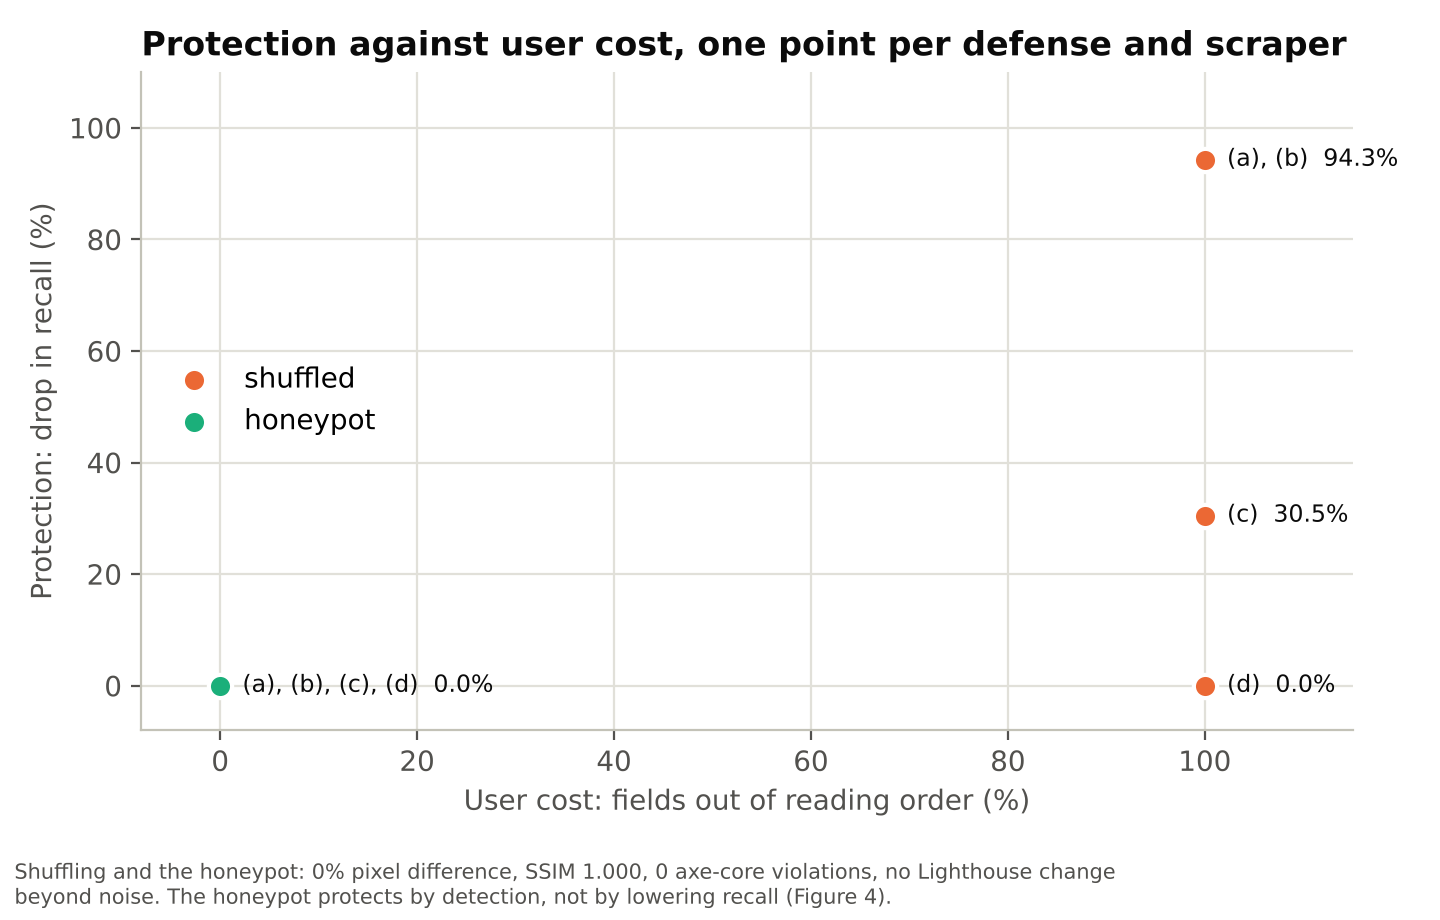
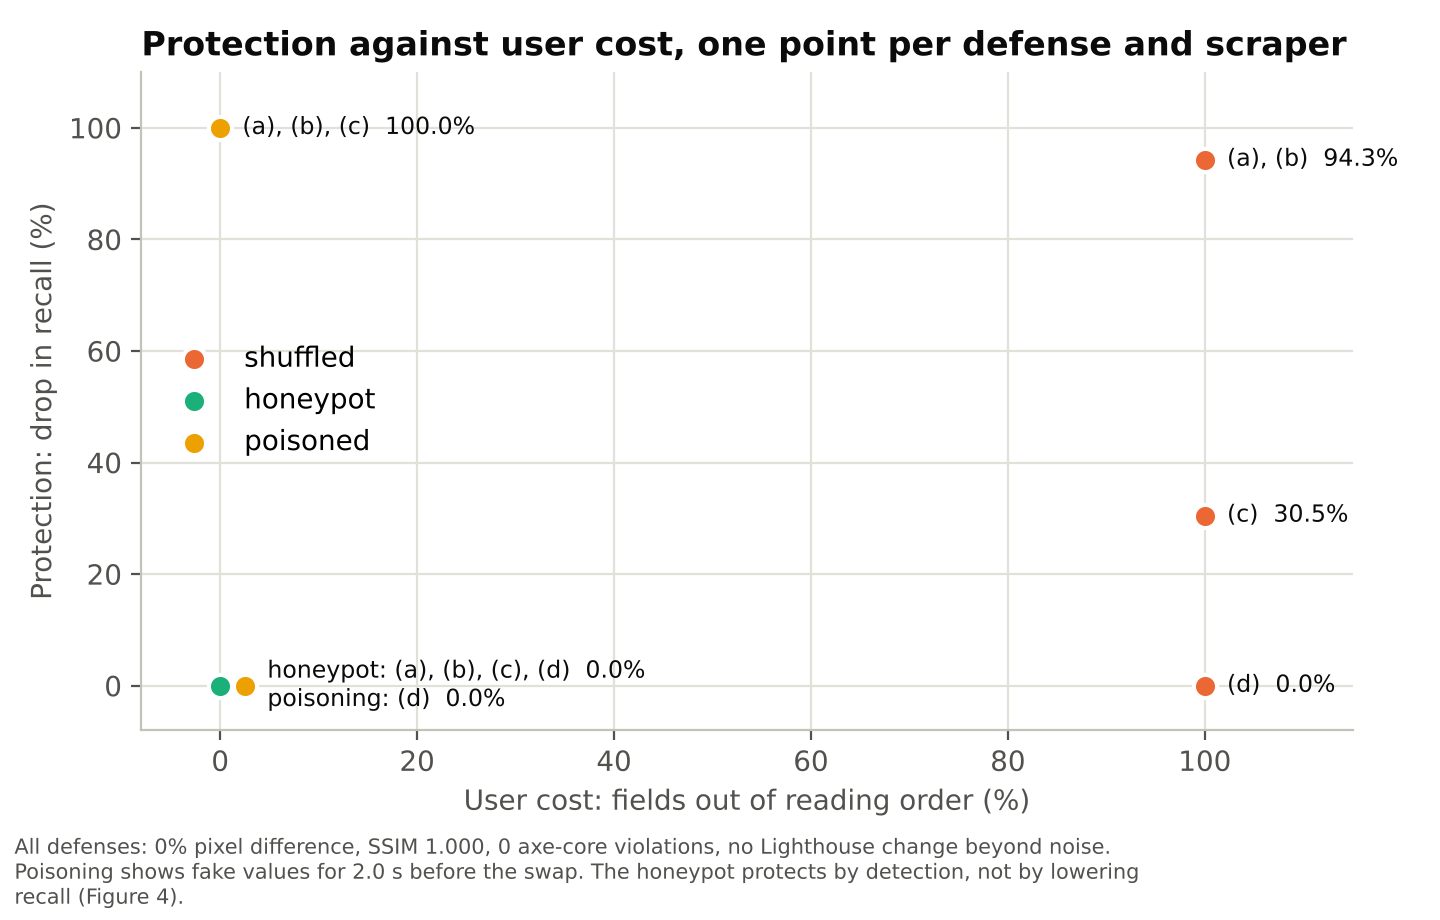
Poisoning's tables and graphs with the laptop's user cost; cross-check 734/734 (D117)
- graphs 6-8, fig3, fig6 and tables.md redrawn with
  results/2026-11-23-user-cost-full-2
- Table 3: fakes on screen column; fig3: points that share a spot sit
  side by side, so their labels no longer overlap
- Log Turn 380

Claude-Session: https://claude.ai/code/session_015cti87W5fXESvDhktUwNW7

diff --git a/measurement/figures.py b/measurement/figures.py
@@ -156,6 +156,8 @@ def fig_reduction(plt, cells, scrapers, path):
 
 def fig_protection_vs_cost(plt, cells, cost, scrapers, path):
     fig, ax = plt.subplots(figsize=(7.2, 4.6))
+    from matplotlib.transforms import offset_copy
+    points = defaultdict(list)  # (x, drop) -> [(defense, scrapers)], so defenses at the same spot sit side by side
     for cond in DEFENSES:
         if cond not in cost:
             continue
@@ -166,18 +168,28 @@ def fig_protection_vs_cost(plt, cells, cost, scrapers, path):
             if c and c["reduction_recall"] is not None:
                 groups[round(100 * c["reduction_recall"], 1)].append(s)
         for red, ss in groups.items():
-            ax.scatter([100 * x], [red], s=70, color=COLORS[cond], edgecolor="white", linewidth=1.5, zorder=3,
-                       label=cond if red == max(groups) else None)
-            ax.annotate(", ".join(f"({s})" for s in ss) + f"  {red:.1f}%", (100 * x, red), xytext=(8, 0),
-                        textcoords="offset points", va="center", fontsize=8.5, color=INK)
+            points[(100 * x, red)].append((cond, ss))
+    labelled = set()
+    for (xp, red), entries in points.items():
+        for k, (cond, ss) in enumerate(entries):
+            ax.scatter([xp], [red], s=70, color=COLORS[cond], edgecolor="white", linewidth=1.5, zorder=3,
+                       transform=offset_copy(ax.transData, fig=fig, x=9 * k, y=0, units="points"),
+                       label=None if cond in labelled else cond)
+            labelled.add(cond)
+        text = "\n".join((f"{DEFENSE_NAMES[c]}: " if len(entries) > 1 else "") + ", ".join(f"({s})" for s in ss)
+                         + f"  {red:.1f}%" for c, ss in entries)
+        ax.annotate(text, (xp, red), xytext=(8 + 9 * (len(entries) - 1), 0), textcoords="offset points", va="center",
+                    fontsize=8.5, color=INK)
     ax.set_xlim(-8, 115)
     ax.set_ylim(-8, 110)
     ax.set_xlabel("User cost: fields out of reading order (%)")
     ax.set_ylabel("Protection: drop in recall (%)")
     ax.set_title("Protection against user cost, one point per defense and scraper", loc="left")
     ax.legend(loc="center left")
-    footnote(fig, "Shuffling and the honeypot: 0% pixel difference, SSIM 1.000, 0 axe-core violations, no Lighthouse change "
-             "beyond noise. The honeypot protects by detection, not by lowering recall (Figure 4).")
+    note = "All defenses: 0% pixel difference, SSIM 1.000, 0 axe-core violations, no Lighthouse change beyond noise."
+    if "poisoned" in cost and cost["poisoned"].get("fakes_visible_max_s") is not None:
+        note += f" Poisoning shows fake values for {cost['poisoned']['fakes_visible_max_s']:.1f} s before the swap."
+    footnote(fig, note + " The honeypot protects by detection, not by lowering recall (Figure 4).")
     fig.tight_layout(rect=(0, 0.08, 1, 1))
     fig.savefig(path, dpi=200)
     plt.close(fig)
@@ -293,7 +305,7 @@ def tables(cells, cost, scrapers):
     lines += ["", "False-positive rate: planned (a human-like visitor that clicks only visible links, Sun Nov 29).", "",
               "## Table 3. User cost against baseline", "",
               "| Site | Pixel diff (max) | SSIM (min) | Fields out of reading order | HTML size | axe-core violations (new) | "
-              "Lighthouse score | FCP | LCP | TTI |", "|---|---|---|---|---|---|---|---|---|---|"]
+              "Lighthouse score | FCP | LCP | TTI | Fakes on screen (max) |", "|---|---|---|---|---|---|---|---|---|---|---|"]
     for cond in DEFENSES:
         c = cost.get(cond)
         if not c:
@@ -304,7 +316,8 @@ def tables(cells, cost, scrapers):
         lines.append(f"| {cond} | {c['pixel_diff_max_percent']:.3f}% | {c['ssim_min']:.4f} | "
                      f"{c['fields_out_of_order']:.0f}/{c['fields']:.0f} | {c['html_change_percent']:+.1f}% | "
                      f"{c.get('axe_violations', 0):.0f} ({c.get('axe_new_vs_baseline', 0):.0f}) | {ch('score', '', 1)} | "
-                     f"{ch('fcp_ms', ' ms')} | {ch('lcp_ms', ' ms')} | {ch('tti_ms', ' ms')} |")
+                     f"{ch('fcp_ms', ' ms')} | {ch('lcp_ms', ' ms')} | {ch('tti_ms', ' ms')} | "
+                     f"{'—' if c.get('fakes_visible_max_s') is None else format(c['fakes_visible_max_s'], '.2f') + ' s'} |")
     lines += ["", "Lighthouse changes are the mean over the 10 pages of each page's median of 5 runs; a change smaller than "
               "the baseline's own run-to-run range is not counted as an effect (§5).", ""]
     # Table 4: comparison with published work

diff --git a/measurement/tests/test_figures.py b/measurement/tests/test_figures.py
@@ -64,7 +64,7 @@ class TablesTest(unittest.TestCase):
         self.assertIn("| (a) raw HTML | shuffled | 4 4 4 | 5.7% |", text)
         self.assertIn("94.3% | stops |", text)
         self.assertIn("| (d) adaptive | 0.00 | 1.00 | 0 |", text)
-        self.assertIn("| shuffled | 0.000% | 1.0000 | 70/70 | +21.2% | 0 (0) | +0.0 | +0 ms | +0 ms | +22 ms |", text)
+        self.assertIn("| shuffled | 0.000% | 1.0000 | 70/70 | +21.2% | 0 (0) | +0.0 | +0 ms | +0 ms | +22 ms | — |", text)
         self.assertIn("100% (88.7% → 0%) | WebCloak", text)
         self.assertIn("300×", text)
 

diff --git a/results/2026-11-23-cross-check/report.md b/results/2026-11-23-cross-check/report.md
@@ -1,8 +1,8 @@
 # Cross-check of the results
 
-Run 2026-11-23T19:22:27 · runs: `results/2026-11-18-experiment`, `results/2026-11-18-c-all`, `results/2026-11-20-d-all`, `results/2026-11-23-poisoned-2` · results: `results/2026-11-23-results-all` · user cost: `results/2026-11-20-user-cost-full`
+Run 2026-11-23T20:13:11 · runs: `results/2026-11-18-experiment`, `results/2026-11-18-c-all`, `results/2026-11-20-d-all`, `results/2026-11-23-poisoned-2` · results: `results/2026-11-23-results-all` · user cost: `results/2026-11-23-user-cost-full-2`
 
-**707 of 707 checks agree.**
+**734 of 734 checks agree.**
 
 ## Tally for each scraper and defense (recounted from the raw outputs and logs)
 
@@ -724,15 +724,42 @@ Run 2026-11-23T19:22:27 · runs: `results/2026-11-18-experiment`, `results/2026-
 | user cost honeypot /articles/a1: fields out of reading order | yes | from the HTML 0/5, reported 0/5 |
 | user cost honeypot /articles/a2: HTML bytes | yes | regenerated 1982, reported 1982 |
 | user cost honeypot /articles/a2: fields out of reading order | yes | from the HTML 0/5, reported 0/5 |
+| user cost poisoned /: HTML bytes | yes | regenerated 1564, reported 1564 |
+| user cost poisoned /: fields out of reading order | yes | from the HTML 0/0, reported 0/0 |
+| user cost poisoned /products/: HTML bytes | yes | regenerated 1596, reported 1596 |
+| user cost poisoned /products/: fields out of reading order | yes | from the HTML 0/0, reported 0/0 |
+| user cost poisoned /products/p1: HTML bytes | yes | regenerated 2863, reported 2863 |
+| user cost poisoned /products/p1: fields out of reading order | yes | from the HTML 0/10, reported 0/10 |
+| user cost poisoned /products/p2: HTML bytes | yes | regenerated 2869, reported 2869 |
+| user cost poisoned /products/p2: fields out of reading order | yes | from the HTML 0/10, reported 0/10 |
+| user cost poisoned /products/p3: HTML bytes | yes | regenerated 2870, reported 2870 |
+| user cost poisoned /products/p3: fields out of reading order | yes | from the HTML 0/10, reported 0/10 |
+| user cost poisoned /products/p4: HTML bytes | yes | regenerated 2864, reported 2864 |
+| user cost poisoned /products/p4: fields out of reading order | yes | from the HTML 0/10, reported 0/10 |
+| user cost poisoned /products/p5: HTML bytes | yes | regenerated 2869, reported 2869 |
+| user cost poisoned /products/p5: fields out of reading order | yes | from the HTML 0/10, reported 0/10 |
+| user cost poisoned /products/p6: HTML bytes | yes | regenerated 2870, reported 2870 |
+| user cost poisoned /products/p6: fields out of reading order | yes | from the HTML 0/10, reported 0/10 |
+| user cost poisoned /articles/a1: HTML bytes | yes | regenerated 2388, reported 2388 |
+| user cost poisoned /articles/a1: fields out of reading order | yes | from the HTML 0/5, reported 0/5 |
+| user cost poisoned /articles/a2: HTML bytes | yes | regenerated 2377, reported 2377 |
+| user cost poisoned /articles/a2: fields out of reading order | yes | from the HTML 0/5, reported 0/5 |
 | user cost shuffled: screenshots identical to baseline pixel for pixel when 0% is reported | yes | 0 of 10 pages differ; reported max 0.0% |
 | user cost shuffled: axe-core violations | yes | from the axe report 0, reported 0 |
-| user cost shuffled: Lighthouse score change (median of runs, mean over pages) | yes | recounted 0, reported 0.0 |
-| user cost shuffled: Lighthouse fcp_ms change (median of runs, mean over pages) | yes | recounted -0.3616599999999835, reported -0.36166 |
-| user cost shuffled: Lighthouse lcp_ms change (median of runs, mean over pages) | yes | recounted -0.3616599999999835, reported -0.36166 |
-| user cost shuffled: Lighthouse tti_ms change (median of runs, mean over pages) | yes | recounted 21.55458000000001, reported 21.5546 |
+| user cost shuffled: Lighthouse score change (median of runs, mean over pages) | yes | recounted -0.2, reported -0.2 |
+| user cost shuffled: Lighthouse fcp_ms change (median of runs, mean over pages) | yes | recounted 0.07283000000001039, reported 0.07283 |
+| user cost shuffled: Lighthouse lcp_ms change (median of runs, mean over pages) | yes | recounted 0.07283000000001039, reported 0.07283 |
+| user cost shuffled: Lighthouse tti_ms change (median of runs, mean over pages) | yes | recounted 8.683384999999987, reported 8.68338 |
 | user cost honeypot: screenshots identical to baseline pixel for pixel when 0% is reported | yes | 0 of 10 pages differ; reported max 0.0% |
 | user cost honeypot: axe-core violations | yes | from the axe report 0, reported 0 |
-| user cost honeypot: Lighthouse score change (median of runs, mean over pages) | yes | recounted 0, reported 0.0 |
-| user cost honeypot: Lighthouse fcp_ms change (median of runs, mean over pages) | yes | recounted 0.2789250000000152, reported 0.278925 |
-| user cost honeypot: Lighthouse lcp_ms change (median of runs, mean over pages) | yes | recounted 0.2789250000000152, reported 0.278925 |
-| user cost honeypot: Lighthouse tti_ms change (median of runs, mean over pages) | yes | recounted -6.77064499999999, reported -6.77064 |
+| user cost honeypot: Lighthouse score change (median of runs, mean over pages) | yes | recounted -0.2, reported -0.2 |
+| user cost honeypot: Lighthouse fcp_ms change (median of runs, mean over pages) | yes | recounted 0.05217000000001235, reported 0.05217 |
+| user cost honeypot: Lighthouse lcp_ms change (median of runs, mean over pages) | yes | recounted 0.05217000000001235, reported 0.05217 |
+| user cost honeypot: Lighthouse tti_ms change (median of runs, mean over pages) | yes | recounted 16.35996000000001, reported 16.36 |
+| user cost poisoned: screenshots identical to baseline pixel for pixel when 0% is reported | yes | 0 of 10 pages differ; reported max 0.0% |
+| user cost poisoned: fakes stay on screen at least the swap delay and end before the screenshot | yes | longest 2.0348 s; swap delay 2 s, screenshot at 3.0 s |
+| user cost poisoned: axe-core violations | yes | from the axe report 0, reported 0 |
+| user cost poisoned: Lighthouse score change (median of runs, mean over pages) | yes | recounted 0, reported 0.0 |
+| user cost poisoned: Lighthouse fcp_ms change (median of runs, mean over pages) | yes | recounted 1.7224199999999996, reported 1.72242 |
+| user cost poisoned: Lighthouse lcp_ms change (median of runs, mean over pages) | yes | recounted 1.7224199999999996, reported 1.72242 |
+| user cost poisoned: Lighthouse tti_ms change (median of runs, mean over pages) | yes | recounted -31.318005000000017, reported -31.318 |

diff --git a/Claude-chat-keeper.md b/Claude-chat-keeper.md
@@ -238,6 +238,12 @@ Claude writes no `poisoned.js` code and checks each paste. | Claude writes every
 - **The other defenses:** shuffled and honeypot match Nov 20 on every visual, reading-order, size and axe measure. Their Lighthouse changes (score −0.2, TTI +9 and +16 ms) are also noise.
 - **So:** poisoning costs a visitor about 2 s of wrong values on screen and some page weight, and nothing else measured.
 - **Waiting on:** the push, for the cross-check, graphs 6–8 and Table 3. | — | Joseph (run); Claude (reading) | §4 item 4 (user cost, including "the seconds fake values stay visible (2 by design)"); §5 User cost; hypothesis 5's cost side; D114, D115. | Follows |
+| D117 | 380 | **Poisoning's tables and graphs finished with the laptop's user cost.**
+- **Cross-check:** rerun over the 48 runs, `results-all` and `results/2026-11-23-user-cost-full-2`, **734/734 agree**. That includes reading order on poisoned pages after the swap, and the fakes lasting at least the 2 s delay and ending before the 3 s screenshot.
+- **Graphs:** metric graphs 6–8 (SSIM, Lighthouse, HTML size) redrawn with poisoned.
+- **Tables:** `tables.md` Table 3 gains a "Fakes on screen (max)" column (poisoned 2.03 s).
+- **fig3:** its note now covers all three defenses and poisoning's 2.0 s. Points that share a spot (honeypot on all four scrapers, poisoning on (d), both at 0% and 0%) now sit side by side with stacked labels; before, the labels overlapped.
+- **README:** updated. The measurement tests pass. | — | Claude (tooling) | §4 metrics and item 4; §5 User cost and Analysis; D113, D114, D116. | Follows |
 ---
 
 ## Questions register
@@ -623,6 +629,7 @@ Claude writes no `poisoned.js` code and checks each paste. | Claude writes every
 | J377 | 377 | ok i pushed and merged | Results over 48 runs and cross-check 707/707 (D113); poisoned added to the graphs; user-cost runner serves pages and measures fakes on screen (D114); laptop user-cost run next |
 | J378 | 378 | (laptop user-cost output: commit `32e3f77`, poisoned 0.329% pixel difference, SSIM 0.985, 70/70 out of order) | The old runner ran (PR #64 not merged); poisoned's visual numbers come from unswapped fakes (D115); merge, check, rerun into a new folder |
 | J379 | 379 | (laptop user-cost output, commit `f2414b1`: poisoned 0% pixel difference, SSIM 1.000, 0/70 out of order, fakes 2.02 s) | Correct; poisoning's user cost recorded (D116); push the folder for the graphs and cross-check |
+| J380 | 380 | its pushed | Cross-check 734/734 with the laptop's user cost; graphs 6–8, Table 3 and fig3 with poisoned (D117); what's left |
 
 ### Questions from Claude
 
@@ -678,7 +685,7 @@ Claude writes no `poisoned.js` code and checks each paste. | Claude writes every
 
 **Earlier resume note (Turn 336, end of Fri Nov 20):** Stopped for the day; `main` is up to date (PR #57 merged). Done this week, all ahead of schedule: the runner (D76); the Essential runs (D77); scraper (c) (D78–D88); the results CSV with the standard metrics (D90); user cost parts 1–2 (D91, D92); Test 7's crawl part (D93); ⭐ Milestone 3's Essential "Done when" met (D94); scraper (d) (part 1 D98, part 2 written by Claude at Joseph's request, D99, Deviates, disclosed) and its 9 runs (D101); figures and tables (D100); independent cross-check, 541/541 (D102). Decisions C37–C40 closed (D95–D97). For Mon Nov 23: the 2-page progress report (Word, scratchpad `scrum-1123/`, not in the repository; Turns 329–330, with the metrics write-up and the WebCloak rationale added in Turns 334–335); raise the WebCloak comparison, Claude writing (d), and whether to build poisoning. Still open in Milestone 3: the (d) part of Test 3 (Wed Nov 25); Test 7's stub-model part for (c) (Sun Nov 29); the honeypot false-positive check (Claude, Sun Nov 29); our column of the related-work table (Claude, Nov 25); Cut-line 2 (Tue Dec 1); poisoning may start since (c) and (d) finished early. Open: Figure 2 and the per-field chart were built (D100) without a separate yes; the honeypot `${page.trapPath}` tidy-up; the OneDrive clean-up issue (try `git config gc.auto 0`); the prompt-hook fix for subagent messages.
 
-**For poisoning's user cost (found Turn 347; tooling done Turn 377, D114):** the runner now serves the pages and reports how long the fakes stay on screen. Left: the full run with Lighthouse on the laptop (`--conditions shuffled honeypot poisoned`), then graphs 6–8 and Table 3 again.
+**For poisoning's user cost (found Turn 347):** done. The runner was changed in Turn 377 (D114), the laptop run in Turn 379 (D116), and the tables and graphs in Turn 380 (D117).
 
 **For the tarpit (Turn 347, D107):** once Joseph's `tarpit.js` exists, add: the runner's `--robots ignore` setting for (a), (b) and (d) (the scrapers already take `--robots obey|ignore`); maze pages loaded, seconds trapped and server time per maze request in `scoring/results.py`; Test 6's maze part (a scraper that obeys robots.txt never requests `/maze/`); `tarpit` in the graphs.
 
@@ -17178,3 +17185,34 @@ Two behaviour notes:
 **Questions Claude asked:** none.
 
 **Direction and fit:** D116 (Follows).
+
+### Turn 380 — 2026-11-23 20:13 UTC
+
+**Joseph's prompt (verbatim, captured by hook):**
+
+> its pushed
+
+**What Claude did:**
+- Fetched and merged `main`, which brought in Joseph's `results/2026-11-23-user-cost-full-2`.
+- Reran the cross-check over everything: 734/734 agree.
+- Redrew metric graphs 6–8 and the figures and tables with the laptop's user cost.
+- Added Table 3's "Fakes on screen (max)" column, updated fig3's note, and fixed fig3's overlapping labels for points that share a spot. Looked at graphs 7 and 8 and at fig3.
+- Tests pass. Updated the README, logged D117, committed and pushed, and opened a pull request into `main`.
+
+**Claude's answer (summary):**
+- **All four defenses are now measured.** Poisoning's numbers are final, across scraping, detection and user cost.
+- **Where the graphs are**, and what's new in them.
+- **The cross-check agrees** on 734/734 counts.
+- **What's left in the project,** in brief:
+  - the tarpit (Joseph's `tarpit.js`; D106 and D107);
+  - the honeypot false-positive check;
+  - the (d) part of Test 3;
+  - Test 7's stub part for (c);
+  - our column in the related-work table;
+  - Cut-line 2 on Dec 1;
+  - Milestone 4.
+- ⚠ Merge needed (the link is in the reply).
+
+**Questions Claude asked:** none.
+
+**Direction and fit:** D117 (Follows).

diff --git a/README.md b/README.md
@@ -379,7 +379,7 @@ Re-planned Nov 16 after the scrum meeting: the LLM scraper (c), then the adaptiv
 - [x] Scraper (c) (Ollama, CPU, `llama3.2:3b`): baseline check passed Nov 18 (70/70 in all 3 runs; deadline Nov 22); runs on all three conditions done Nov 18 (planned Nov 28): shuffled 48–49/70, honeypot 70/70 with the trap visited
 - [ ] Scraper (d): written Nov 20 (Claude, at Joseph's request, D99). Baseline check and the runs on all three conditions done Nov 20 (9/9 runs, 70/70 everywhere, the trap never hit); Test 7 passes. Still to do: the (d) part of Test 3 (Nov 25)
 - [x] Related-work table, published side, drafted from the papers (`docs/metrics-plan.md`); our side filled Nov 25 and Dec 3
-- [x] Poisoning (Test 5), started Nov 23 because (c) and (d) finished early. The site and scoring side is ready (D105): the generator's `fakeValue` and `script` hooks, the real-values JSON, the fakes file, fakes in the results and Test 5. `site/defenses/poisoned.js` written Nov 23 (Claude, at Joseph's request, around his price case; D110). In the cloud it passes Test 5 (4/4), and a one-run preview gave (a) and (b) 70 fakes each and (d) 70/70 real values. Runs done Nov 23 on the laptop (commit `910ee22`, `results/2026-11-23-poisoned-2`; an earlier commit held the draft without the swap, and its runs don't count, D111): (a), (b) and (c) 0/70 with 70 fakes in every run, (d) 70/70 (D112). Test 5 passes on the laptop at the same commit (4/4; the swap at 2.0 s). Results over all 48 runs (`results/2026-11-23-results-all`; cross-check 707/707 agree): poisoning stops (a), (b) and (c) (recall 0%, a 100% drop, fake-value rate 100%) and has no effect on (d) (70/70, 4.65 s per page against 3.03 s). The user-cost runner now serves the pages, so poisoned pages swap, and reports how long the fakes stay on screen (2.02 s in the cloud check, D114). Still to do: the full user-cost run with Lighthouse on the laptop
+- [x] Poisoning (Test 5), started Nov 23 because (c) and (d) finished early. The site and scoring side is ready (D105): the generator's `fakeValue` and `script` hooks, the real-values JSON, the fakes file, fakes in the results and Test 5. `site/defenses/poisoned.js` written Nov 23 (Claude, at Joseph's request, around his price case; D110). In the cloud it passes Test 5 (4/4), and a one-run preview gave (a) and (b) 70 fakes each and (d) 70/70 real values. Runs done Nov 23 on the laptop (commit `910ee22`, `results/2026-11-23-poisoned-2`; an earlier commit held the draft without the swap, and its runs don't count, D111): (a), (b) and (c) 0/70 with 70 fakes in every run, (d) 70/70 (D112). Test 5 passes on the laptop at the same commit (4/4; the swap at 2.0 s). Results over all 48 runs (`results/2026-11-23-results-all`; cross-check 707/707 agree): poisoning stops (a), (b) and (c) (recall 0%, a 100% drop, fake-value rate 100%) and has no effect on (d) (70/70, 4.65 s per page against 3.03 s). The user-cost runner now serves the pages, so poisoned pages swap, and reports how long the fakes stay on screen (2.02 s in the cloud check, D114). User cost on the laptop (`results/2026-11-23-user-cost-full-2`, D116): 0% pixel difference, SSIM 1.000, 0/70 fields out of order, 0 axe violations, no Lighthouse change beyond noise, HTML +17.5%, fakes on screen 2.0 s. Cross-check with it: 734/734 agree (D117)
 - [ ] Tarpit (If time permits), started Nov 23 at Joseph's choice, before the midterm's gate (D106). Hooks are ready (`footer`, `disallow`, `maze`). Still to do: Joseph's `site/defenses/tarpit.js`, then the runner's robots.txt setting, the maze measures and Test 6's maze part
 - [ ] Setup for (e)
 

diff --git a/results/2026-11-23-figures/tables.md b/results/2026-11-23-figures/tables.md
@@ -36,10 +36,11 @@ False-positive rate: planned (a human-like visitor that clicks only visible link
 
 ## Table 3. User cost against baseline
 
-| Site | Pixel diff (max) | SSIM (min) | Fields out of reading order | HTML size | axe-core violations (new) | Lighthouse score | FCP | LCP | TTI |
-|---|---|---|---|---|---|---|---|---|---|
-| shuffled | 0.000% | 1.0000 | 70/70 | +21.2% | 0 (0) | +0.0 | +0 ms | +0 ms | +22 ms |
-| honeypot | 0.000% | 1.0000 | 0/70 | +2.8% | 0 (0) | +0.0 | +0 ms | +0 ms | -7 ms |
+| Site | Pixel diff (max) | SSIM (min) | Fields out of reading order | HTML size | axe-core violations (new) | Lighthouse score | FCP | LCP | TTI | Fakes on screen (max) |
+|---|---|---|---|---|---|---|---|---|---|---|
+| shuffled | 0.000% | 1.0000 | 70/70 | +21.2% | 0 (0) | -0.2 | +0 ms | +0 ms | +9 ms | — |
+| honeypot | 0.000% | 1.0000 | 0/70 | +2.8% | 0 (0) | -0.2 | +0 ms | +0 ms | +16 ms | — |
+| poisoned | 0.000% | 1.0000 | 0/70 | +17.5% | 0 (0) | +0.0 | +2 ms | +2 ms | -31 ms | 2.03 s |
 
 Lighthouse changes are the mean over the 10 pages of each page's median of 5 runs; a change smaller than the baseline's own run-to-run range is not counted as an effect (§5).
 
